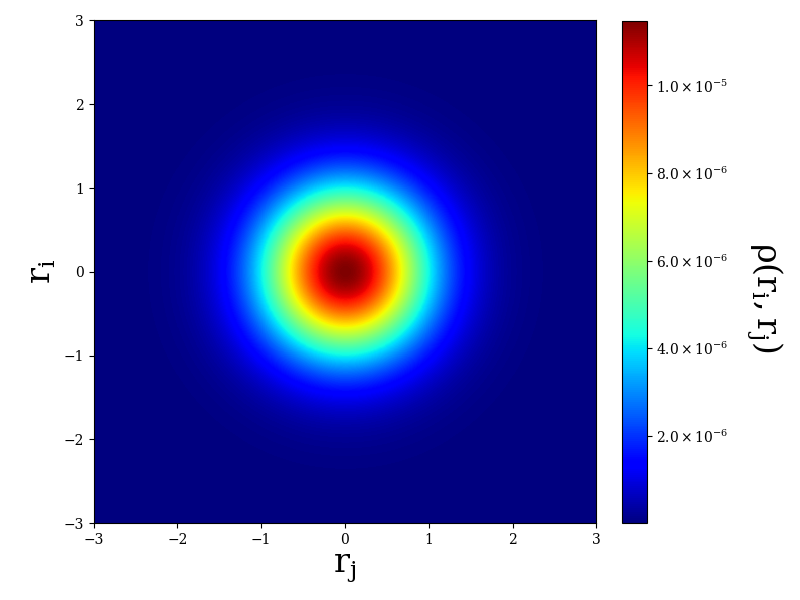
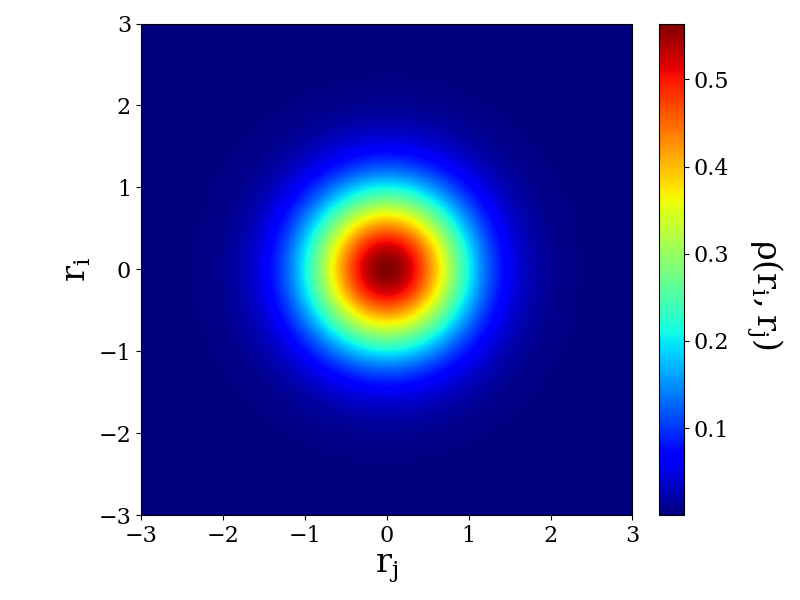
Added plots

diff --git a/scripts/plot_distributed.py b/scripts/plot_distributed.py
@@ -20,12 +20,12 @@ def plot_ratio(data, w, systems, labels):
     plt.ylabel(r"$\frac{\langle\hat{T}\rangle}{\langle\hat{V}\rangle}$", rotation=0, labelpad=10, **label_size)
     plt.legend(loc="best", fontsize=size)
     plt.grid()
-    plt.show()
+    #plt.show()
 
 if __name__ == "__main__":
     w = [0.01, 0.1, 0.28, 0.5, 1.0, 2.0, 3.0, 5.0, 10.0]
     
-    system = "VMC_2D"
+    system = "RBMPJ_2D"
     
     ## --- TWO DIMENSIONS ---
     labels = ["2P", "6P", "12P", "20P"]
@@ -34,9 +34,9 @@ if __name__ == "__main__":
         [1.02192, 0.2477, 0.4256, 0.3487],
         [1.65974, 0.4346, 0.7057, 0.5195],
         [2.99936, 0.8523, 1.3149, 0.8321],
-        [5.497567, 2.0574, 1.9931, 1.4471],
-        [7.881906, 2.5028, 3.6911, 1.6880],
-        [12.504211, 5.1819, 4.7651, 2.5572],
+        [5.49689, 1.811, 2.403, 1.283],
+        [7.88401, 2.732, 3.500, 1.652],
+        [12.50405, 4.619, 5.629, 2.255],
         [23.65035, 9.529, 10.538, 3.583]],
 
         [[0.6982, 0.02735, 0.2427, 0.4281],
@@ -65,7 +65,7 @@ if __name__ == "__main__":
         [94.0433, 7.823, 33.938, 52.282],
         [156.102, 16.86, 58.14, 81.098],
         [262.0, 39.3, 93.57, 129.05],
-        [357.1, 6, 194, 156.751],
+        [358.927, 61.017, 133.99, 163.924],
         [542.680, 127.77, 177.89, 237.12],
         [944.1, 234.4, 383.9, 325.9]]]
     
@@ -123,7 +123,7 @@ if __name__ == "__main__":
         [3.6458, 0.2376, 1.3652, 2.043],
         [7.7347, 0.7603, 3.000, 3.974],
         [11.9392, 1.4801, 4.678, 5.781],
-        [0,0,0,0],
+        [20.3393, 3.308, 7.983, 9.048],
         [35.2446, 7.098, 14.587, 13.560],
         [49.050, 11.164, 20.6469, 17.240],
         [75.116, 19.661, 32.283, 23.172],
@@ -155,8 +155,8 @@ if __name__ == "__main__":
         [1.659637, 0.4305, 0.7112, 0.5179],
         [2.999587, 0.8440, 1.3418, 0.8238],
         [5.49475, 1.7234, 2.4657, 1.3057],
-        [7.87961, 2.3144, 3.9349, 1.6413],
-        [12.49832, 3.9569, 6.3068, 2.2347],
+        [7.88386, 2.704, 3.535, 1.646],
+        [12.5039, 4.560, 5.697, 2.247],
         [23.65275, 9.228, 11.059, 3.366]],
 
         [[0.6932, 0.031, 0.260, 0.401],
@@ -164,8 +164,8 @@ if __name__ == "__main__":
         [7.6203, 0.9519, 2.82, 3.84],
         [11.8074, 1.7018, 4.513, 5.5927],
         [20.1832, 3.428, 8.068, 8.687],
-        [35.0872, 7.670, 14.139, 13.279],
-        [48.9157, 10.789, 20.383, 17.743],
+        [35.0914, 7.701, 14.092, 13.299],
+        [48.891, 11.860, 20.08, 16.947],
         [74.9545, 20.402, 31.744, 22.809],
         [136.1738, 42.66, 59.71, 33.799]],
 
@@ -175,7 +175,7 @@ if __name__ == "__main__":
         [39.2661, 4.262, 14.277, 20.728],
         [65.7911, 8.537, 25.197, 32.067],
         [111.9426, 17.817, 46.532, 47.593],
-        [154.1234, 23.34, 70.39, 60.397],
+        [154.206, 29.701, 60.74, 63.763],
         [233.633, 58.33, 84.76, 90.537],
         [415.943, 124.13, 157.92, 133.89]],
 
@@ -185,11 +185,11 @@ if __name__ == "__main__":
         [94.127, 8.249, 33.543, 52.335],
         [156.099, 16.768, 58.513, 80.818],
         [262.598, 34.758, 108.546, 119.293],
-        [359.220, 37.1, 171.5, 150.646],
+        [359.072, 60.75, 140.51, 157.82],
         [539.13, 120.09, 188.45, 230.58],
         [947.33, 257.67, 348.35, 341.31]]]
 
     
     plot_ratio(eval(system), w, [0,1,2,3], labels)
     
-    #tikzplotlib.save("/home/evenmn/Master-thesis/doc/text/pgf/" + system + ".tex")
+    tikzplotlib.save("/home/evenmn/Master-thesis/doc/text/pgf/" + system + ".tex")

diff --git a/scripts/plot_tb_density.py b/scripts/plot_tb_density.py
@@ -1,6 +1,7 @@
 import numpy as np
 import matplotlib.pyplot as plt
 import matplotlib.ticker as ticker
+from scipy.integrate import simps
 import seaborn as sns
 sns.set()
 
@@ -51,20 +52,24 @@ def remove_cross(data):
     data[:,lengthHalf+1] = data[:,lengthHalf+2]
     return data
     
-def norm(data, numberOfDimensions):
+def norm(data, numberOfDimensions, numberOfParticles):
     numBins = len(data)
     v = radial(numBins, numberOfDimensions)
     xx, yy = np.meshgrid(v, v, sparse=True)
 
-    xx = np.power(xx, numberOfDimensions - 1)
-    yy = np.power(yy, numberOfDimensions - 1)
+    # xx = np.power(xx, numberOfDimensions - 1)
+    # yy = np.power(yy, numberOfDimensions - 1)
 
-    data /= np.multiply(xx,yy)
-    data /= np.sum(np.nan_to_num(data))
+    # data /= np.multiply(xx,yy)
+    # data /= np.sum(np.nan_to_num(data))
     
-    data = np.where(data > 0.0000475, 0, data)
+    #data = np.where(data > 1.0000475, 0, data)
     
-    return data
+    norm_constant = simps(simps(data, v), v)
+    print(norm_constant)
+    print(data.sum())
+    
+    return numberOfParticles * data / norm_constant
     
     
 def rotate(data):
@@ -86,7 +91,8 @@ def fmt(x, pos):
     return r'${} \times 10^{{{}}}$'.format(a, b)
 
 def plot(data, radius):
-    size = 16
+    size = 24
+    size_ticks = 16
     label_size = {"size":str(size)}
     plt.rcParams["font.family"] = "Serif"
     plt.rcParams['mathtext.default'] = 'regular'
@@ -97,23 +103,25 @@ def plot(data, radius):
     img = ax.imshow(data, cmap=plt.cm.jet, extent=[-radius,radius,-radius,radius])
     cbar = fig.colorbar(img, fraction=0.046, pad=0.04, format=ticker.FuncFormatter(fmt))
     cbar.set_label(r'$\rho(r_i,r_j)$', rotation=270, labelpad=40, y=0.45, **label_size)
+    cbar.ax.tick_params(labelsize=size_ticks)
     
     plt.tight_layout()
     
     ax.set_xlabel("$r_j$", **label_size)
     ax.set_ylabel("$r_i$", **label_size)
+    ax.tick_params(labelsize=size_ticks)
     plt.grid()
 
 
 
 def main():
-    maxRadius = [30]
-    newRadius = [10]
+    maxRadius = [10]
+    newRadius = [6]
 
     systems   = ['quantumdot']
-    methods   = ['RBMSJ']
+    methods   = ['RBM']
     dims      = ['2']
-    particles = ['20']
+    particles = ['6']
     omegas    = ['0.500000']      
 
     i=0
@@ -125,7 +133,7 @@ def main():
                         fileName = generateFileName(system, method, dim, particle, omega)
                         data = np.loadtxt(fileName)
                         data = crop(data, maxRadius[0], newRadius[0])
-                        data = norm(data, int(dim))
+                        data = norm(data, int(dim), int(particle))
                         data = rotate(data)
                         data = remove_cross(data)
                         plot(data, newRadius[0])

diff --git a/scripts/plot_ob_density.py b/scripts/plot_ob_density.py
@@ -18,10 +18,10 @@ def radial(size):
 
 def exact(r1, w):
     '''Exact solution without interaction for given w'''
-    return (2*r1*0+1)*np.exp(- w * r1**2)
+    return 2 * np.sqrt(w/np.pi) * np.exp(- w * r1**2)
 
-files = ["../data/int1/quantumdot/onebody/VMC/2D/6P/0.010000w/ADAM_MC1048576.dat",
-         "../data/int1/quantumdot/onebody/RBM/2D/6P/0.010000w/ADAM_MC1048576.dat",
+files = ["../data/int1/atom/onebody/VMC/3D/2P/1.000000w/ADAM_MC1048576.dat",
+         #"../data/int1/quantumdot/onebody/RBM/2D/6P/0.010000w/ADAM_MC1048576.dat",
          #"../data/int1/quantumdot/onebody/RBMSJ/2D/6P/0.010000w/ADAM_MC1048576.dat",
          #"../data/int1/quantumdot/onebody/RBMPJ/2D/6P/0.010000w/ADAM_MC1048576.dat",
          ]
@@ -38,7 +38,7 @@ line_style = ["-",
               ":"
               ]
          
-maxRadius = [55,
+maxRadius = [10,
              55,
              55,
              55
@@ -58,12 +58,13 @@ for i in range(len(files)):
     data /= np.sum(data)
     #data *= int(len(data)/1000)
     r = np.linspace(0,maxRadius[i],len(data))
-    data = np.where(data > 1.003, 0, data) 
+    #data = np.where(data > 1.003, 0, data) 
     data[:np.argmax(data)] = np.where(data[:np.argmax(data)] < limit[i], 0, data[:np.argmax(data)])
     indices = np.where(data == 0)[0]
     data = np.delete(data, indices)
     r = np.delete(r, indices)
     data /= np.sum(data)
+    data = np.multiply(data, r**2)
     #r = r[np.argmax(data):]
     #data = data[np.argmax(data):]
     
@@ -81,10 +82,10 @@ plt.gcf().subplots_adjust(left=0.18)
 #exact1 = exact(r, w=1.0)/np.sum(exact(r, w=1.0))
 #plt.plot(r, exact1, '--r', linewidth=1.0, label="Exact")
 
-plt.xlabel("r", **label_size)
-plt.ylabel(r"$\rho$(r)", **label_size)
-plt.legend(loc="best", fontsize=size)
-#plt.axis([-0.1,3.1,-0.0001,0.0036])
+plt.xlabel("$r$", **label_size)
+plt.ylabel(r"$r^2\rho(r)$", **label_size)
+#plt.legend(loc="best", fontsize=size)
+plt.axis([-0.1,3.1,-0.00002,0.00175])
 plt.grid()
 #plt.savefig("../html/onebody_PJ_NQS_P2_D2_MC1048576.png")
 plt.show()

diff --git a/scripts/plot_exact_tb.py b/scripts/plot_exact_tb.py
@@ -3,7 +3,7 @@ import matplotlib.pyplot as plt
 import matplotlib.ticker as ticker
 
 def exact(r1, r2, w):
-    return np.exp(- w * (r1 * r1 + r2 * r2))
+    return 2 * np.sqrt(w/np.pi) * np.exp(- w * (r1 * r1 + r2 * r2))
     
 def fmt(x, pos):
     a, b = '{:.1e}'.format(x).split('e')
@@ -20,9 +20,10 @@ if __name__ == "__main__":
         for j in range(N):
             data[i, j] = exact(r[i], r[j], 1)
     
-    data /= np.sum(data)
+    #data /= np.sum(data)
     
     size = 24
+    size_ticks = 16
     label_size = {"size":str(size)}
     plt.rcParams["font.family"] = "Serif"
     plt.rcParams['mathtext.default'] = 'regular'
@@ -31,11 +32,13 @@ if __name__ == "__main__":
     fig, ax = plt.subplots(figsize=(8,6))
     
     img = ax.imshow(data, cmap=plt.cm.jet, extent=[-radius,radius,-radius,radius])
-    cbar = fig.colorbar(img, fraction=0.046, pad=0.04, format=ticker.FuncFormatter(fmt))
+    cbar = fig.colorbar(img, fraction=0.046, pad=0.04) #, format=ticker.FuncFormatter(fmt))
     cbar.set_label(r'$\rho(r_i,r_j)$', rotation=270, labelpad=40, y=0.45, **label_size)
+    cbar.ax.tick_params(labelsize=size_ticks)
     
     plt.tight_layout()
     
     ax.set_xlabel("$r_j$", **label_size)
     ax.set_ylabel("$r_i$", **label_size)
+    ax.tick_params(labelsize=size_ticks)
     plt.show()

diff --git a/scripts/plot_ob2.py b/scripts/plot_ob2.py
@@ -138,14 +138,14 @@ class PlotOB():
 
 if __name__ == "__main__":
 
-    QD = PlotOB("../data/int1/quantumdot/onebody2/VMC/2D/2P/0.010000w/ADAM_MC1048576.dat", 50)
+    QD = PlotOB("../data/int1/quantumdot/onebody2/VMC/2D/6P/0.010000w/ADAM_MC1048576.dat", 55)
     QD.remove_cross()
     QD.norm(6)
     #QD.cut(0.00006)
-    #QD.crop(50)
-    #QD.smooth(29, 4)
+    #QD.crop(25)
+    QD.smooth(29, 4)
     #masked_data = QD.mask_cross_section()
     #QD.plot_heatmap()
     #QD.rotate()
-    QD.plot_radial()
-    #QD.plot_3Dcontour()
+    #QD.plot_radial()
+    QD.plot_3Dcontour()
